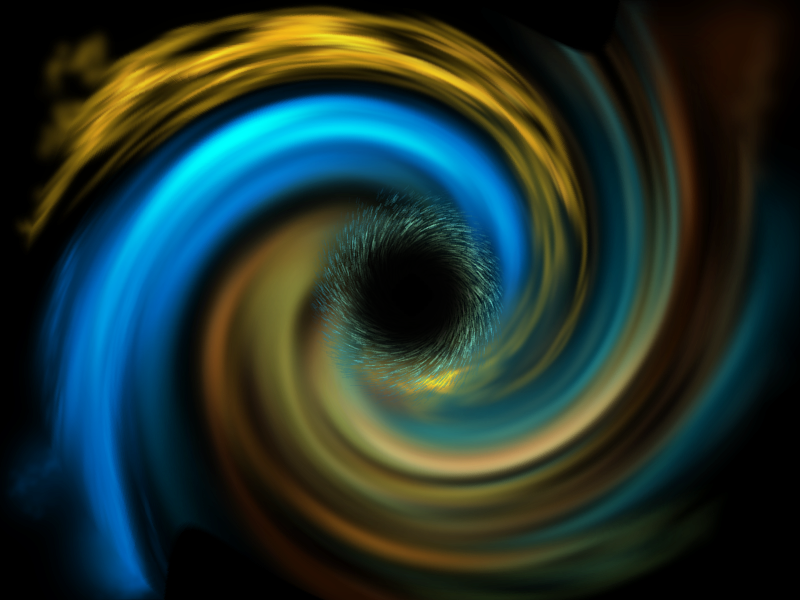
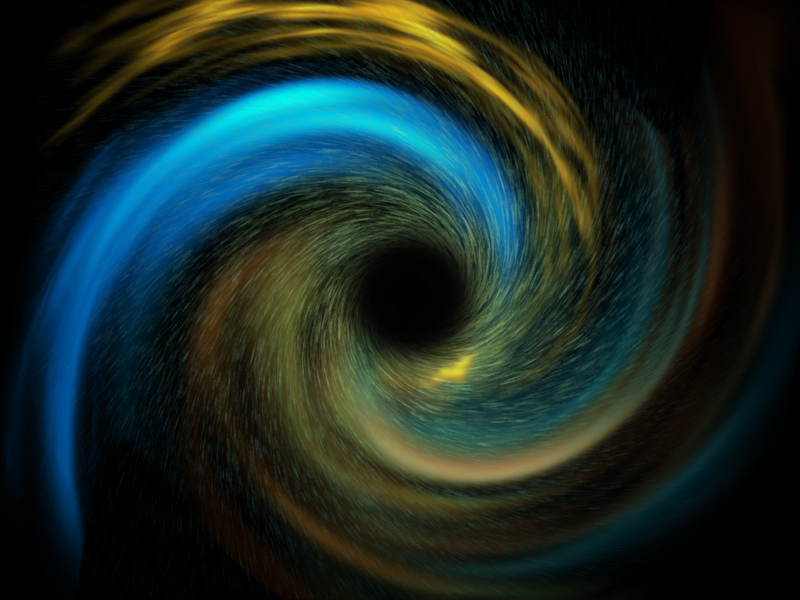
new background for black hole

diff --git a/Engine/World.cpp b/Engine/World.cpp
@@ -20,7 +20,7 @@ World::World()
 	smallEnemyExhaust(L"smallenemyexhaust\\", 8),
 	smallEnemyExplode(L"smallshipexplo\\", 13),
 	blackHoleLevel(BlackHoleBGFrames, cometAnim),
-	BlackHoleBGFrames(L"blackholeBG\\", 66),
+	BlackHoleBGFrames(L"blackholeBG\\", 20),
 	cometAnim(L"comet\\", 6)
 {
 	std::mt19937 rng;
